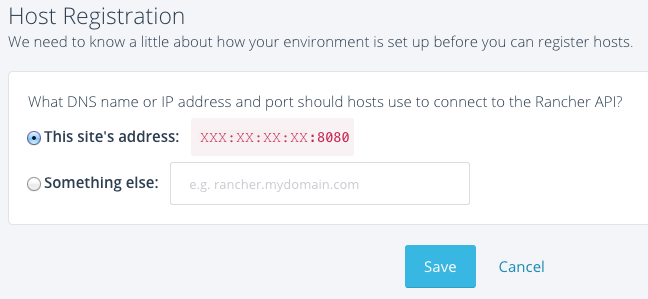
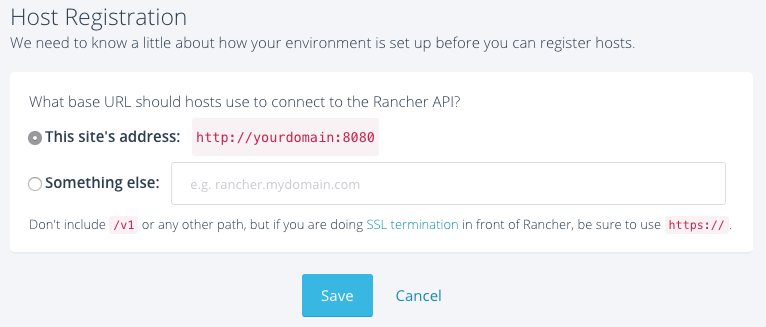
Updte documentation for SSL changes

diff --git a/rancher/installing-rancher/installing-server/basic-ssl-config/index.md b/rancher/installing-rancher/installing-server/basic-ssl-config/index.md
@@ -6,7 +6,7 @@ layout: rancher-default
 ## Installing Rancher Server With SSL
 ---
 
-In order to run Rancher Server from an https url, you will need to terminate SSL with a proxy that is capable of setting headers. We''ll provide an outline of how to set it up with NGINX, but other tools could be used. 
+In order to run Rancher Server from an https url, you will need to terminate SSL with a proxy that is capable of setting headers. We'll provide an outline of how to set it up with NGINX, but other tools could be used.
 
 ## Requirements
 
@@ -17,25 +17,21 @@ Besides the typical Rancher Server [requirements]({{site.baseurl}}/rancher/insta
 
 ## Launching Rancher Server
 
-In our configuration, all traffic will pass through the proxy and be sent over a Docker link to the Rancher Server container. There are alternative approaches that could be followed, but this approach is simple and translates well. 
+In our configuration, all traffic will pass through the proxy and be sent over a Docker link to the Rancher Server container. There are alternative approaches that could be followed, but this approach is simple and translates well.
 
-Start the Rancher Server container with the additional environment variables.
+Start the Rancher Server as normal:
 
 ```bash
-$ sudo docker run -d --restart=always --name=rancher-server \
--e "CATTLE_API_ALLOW_CLIENT_OVERRIDE=true" \
--e "CATTLE_HOST_API_PROXY_SCHEME=wss" rancher/server
+$ sudo docker run -d --restart=always --name=rancher-server rancher/server
 ```
 
-> **Note:** We are assuming that you will run your proxy in a container. If you are going to run a proxy from the host, you will need to expose port 8080 by adding `-p 8080:8080` to the command. 
+> **Note:** We are assuming that you will run your proxy in a container. If you are going to run a proxy from the host, you will need to expose port 8080 by adding `-p 8080:8080` to the command.
 
-If you are converting an existing Rancher instance configured with a data volume or external DB, stop and remove the existing Rancher Server container. Launch the new container with `--volumes-from=<data_container>` or [external DB settings]({{site.baseurl}}/rancher/installing-rancher/installing-server/#external-db). 
+If you are converting an existing Rancher instance configured with a data volume or external DB, stop and remove the existing Rancher Server container. Launch the new container with `--volumes-from=<data_container>` or [external DB settings]({{site.baseurl}}/rancher/installing-rancher/installing-server/#external-db).
 
 ## Nginx Configuration
 
-We are working on making a simpler configuration and allow different SSL termination options.
-
-Here is the minimum NGINX configuration that will need to be configured. You should customize your configuration to meet best practices. 
+Here is the minimum NGINX configuration that will need to be configured. You should customize your configuration to meet best practices.
 
 ```
 upstream rancher {
@@ -48,11 +44,11 @@ server {
     ssl_certificate <cert_file>;
     ssl_certificate_key <key_file>;
 
-    proxy_buffering off;
-    proxy_buffer_size 512;
-
     location / {
-        proxy_set_header X-API-request-url $scheme://<host>$request_uri;
+        proxy_set_header Host $host;
+        proxy_set_header X-Forwarded-Proto $scheme;
+        proxy_set_header X-Forwarded-Port $server_port;
+        proxy_set_header X-Forwarded-For $proxy_add_x_forwarded_for;
         proxy_pass http://rancher;
         proxy_http_version 1.1;
         proxy_set_header Upgrade $http_upgrade;
@@ -69,20 +65,10 @@ server {
 
 **Important Setting Notes:**
 
-* Please be sure to disable NGINX `proxy-buffering`. If this setting is enable, the hosts will ping back to the server and this forces the agent to reconnect. 
-* `X-API-request-url` header must be configured. This header is how the API schema will show the correct information. We are working to support standard `X-Forwarded-*` headers. 
+* `rancher-server` is the name of your rancher server container. In other words, you must start your rancher server container with `--name=rancher-server` and your nginx container with `--link=rancher-server` for this exact configuration to work.
+* `<server>` can be any arbirtray name, but the same name should be used for both the http and https servers.
 
-## Settings
+## Host Registration
+After Rancher is launched with these settings, the UI will be up and running at `https://<your domain>/`.
 
-After Rancher is launched with these settings, the UI will be up and you can find it at this URL: 
-
-`https://<rancher_server_ip>/v1/settings/api.host`
-
-Click on **Edit**. Set the value equal to a space " " and **Save**.
-
-
-
-
-
-
-
+In the UI, you'll need to properly configure Host Registration for SSL. See the [Host Registration ]({{site.baseurl}}/rancher/configuration/host-registration) section for more details.

diff --git a/rancher/configuration/host-registration/index.md b/rancher/configuration/host-registration/index.md
@@ -9,7 +9,6 @@ Before launching any hosts, you will be asked to complete the host registration.
 
 ![Host Registration on Rancher 1]({{site.baseurl}}/img/rancher/rancher_hosts_registration_1.png)
 
-The setup determines what DNS name or IP address, and port that your hosts will be connected to the Rancher API. By default, we have selected the management server IP and port `8080`.  If you choose to change the address, please make sure to specify the port that should be used to connect to the Rancher API. This registration set up determines what the command will be for [adding custom hosts]({{site.baseurl}}/rancher/rancher-ui/infrastructure/hosts/custom/).
+The setup determines the base URL your hosts will use to connect to the Rancher API. By default, we select the base URL you used to access the UI.  If you choose to change the address, please make sure to specify the port that should be used to connect to the Rancher API. If you are configuring Rancher with SSL, be sure to change the protocol to `https`. This registration set up determines what the command will be for [adding custom hosts]({{site.baseurl}}/rancher/rancher-ui/infrastructure/hosts/custom/).
 
 If [access control]({{site.baseurl}}/rancher/configuration/access-control/) is turned on for Rancher, only the **admin** will be able to change the host registration. The **admin** is the first user to authenticate with Rancher when access control was configured. If access-control is still not configured, any users to the site can change host registration. In the account dropdown menu at the upper right corner, **Host Registration** can be found under the **Administration** section. 
-
